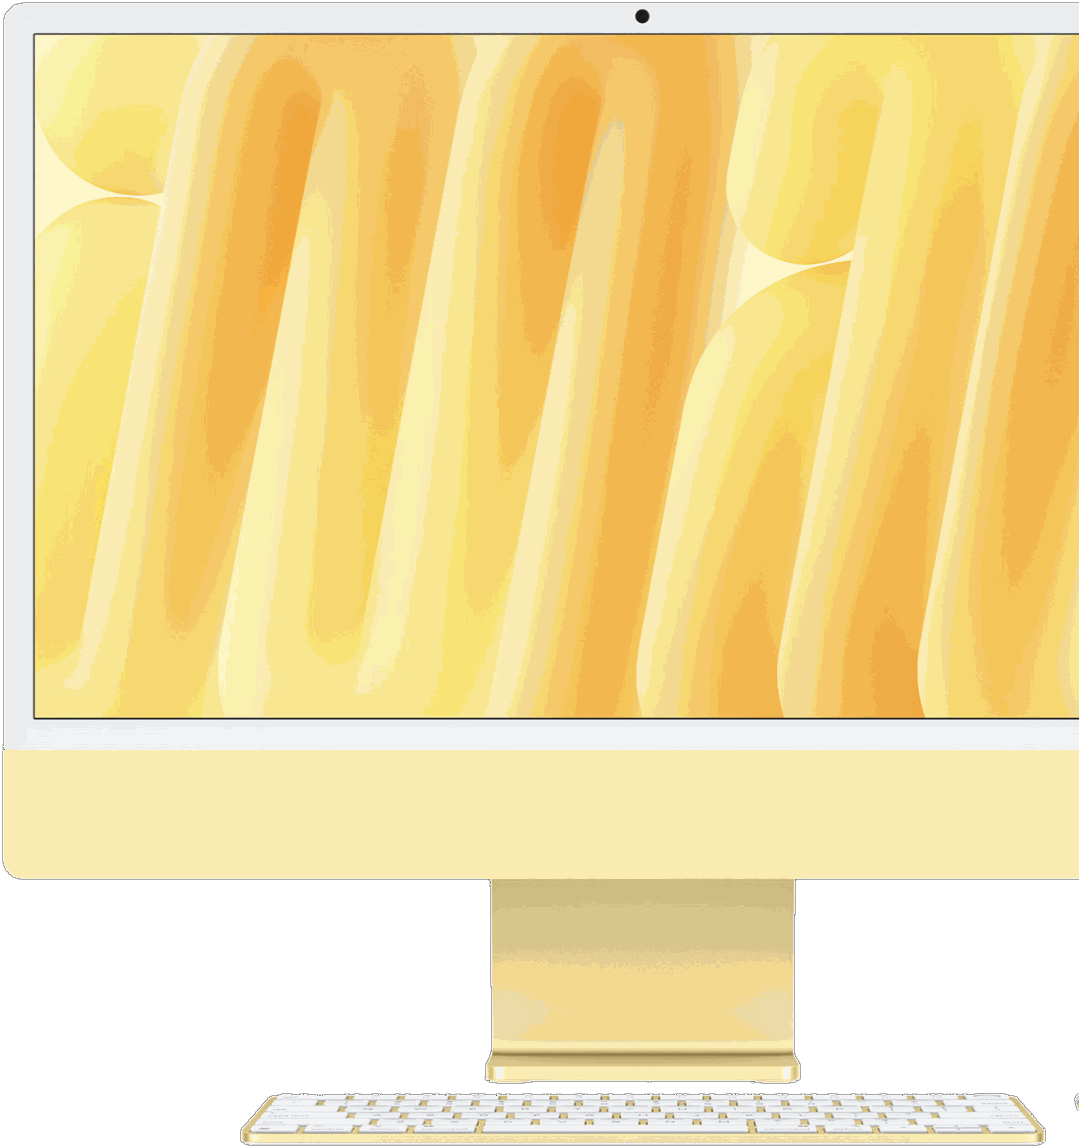
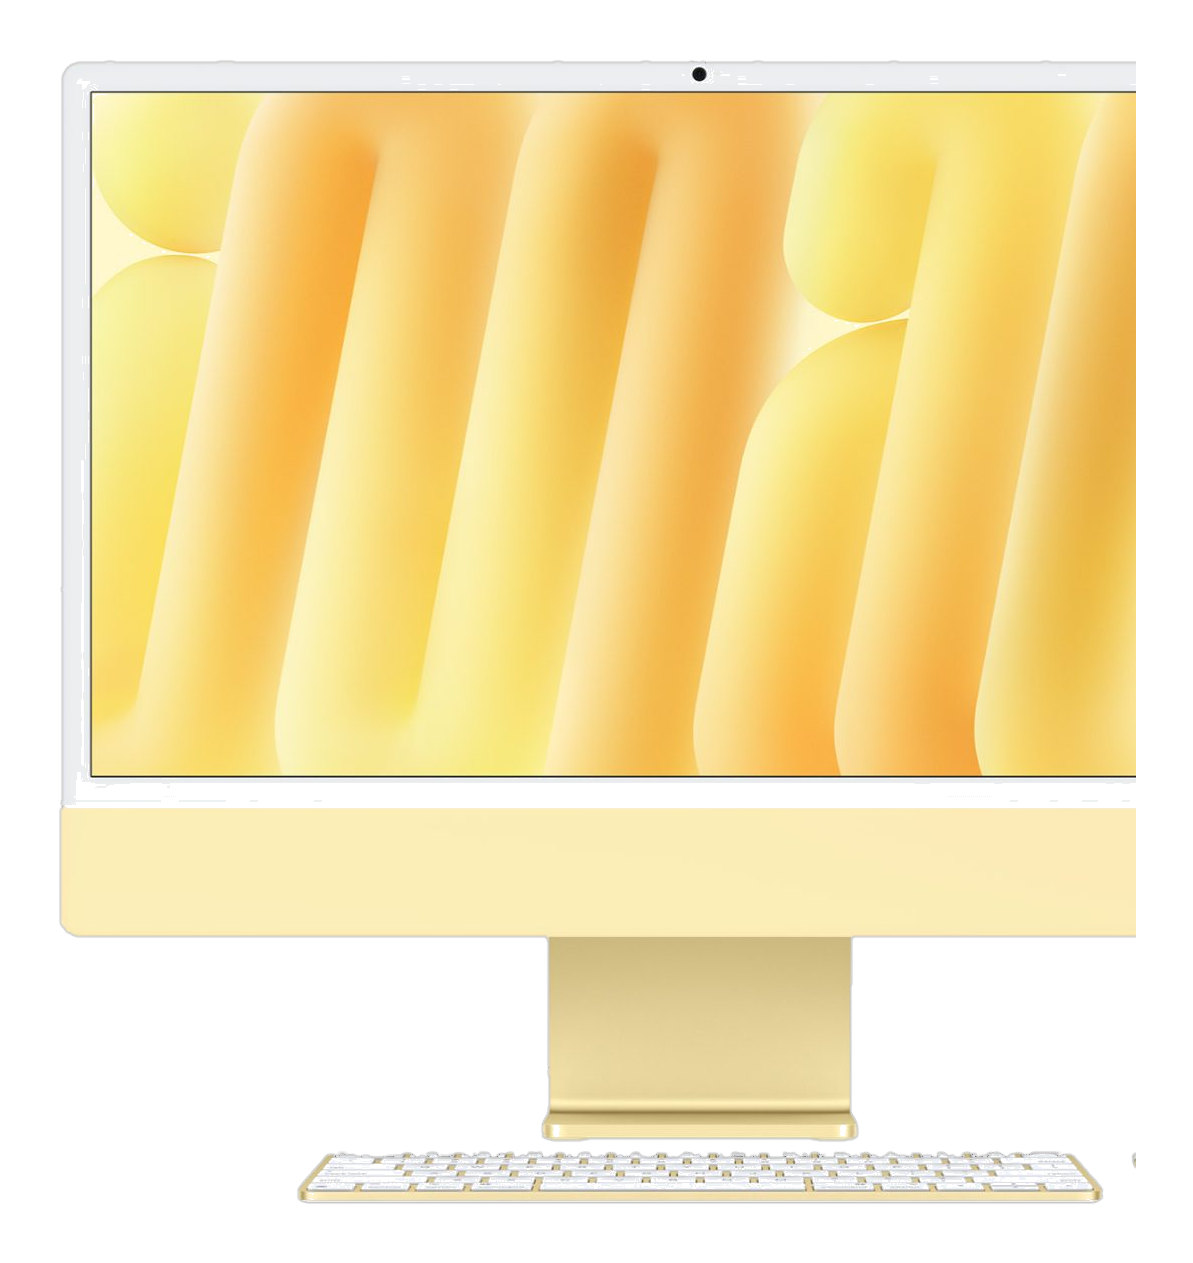
Fix cropped iMac, drop before/after badges, add scroll-stacking rows
- The iMac cutout had 896 opaque pixels flush against its right edge, so
  the keyboard read as chopped off inside the tile. Re-cut from the
  original with a wider colour key and a transparent margin on all sides.
- Removed the corner BEFORE/AFTER badges; the toggle already states which
  side you are looking at.
- Before/after cards are now two sticky rows: the second slides up over
  the first as you scroll, with the covered row scaling back and fading.
  Disabled below 901px and under reduced-motion.
- overflow-x:hidden on body was silently disabling position:sticky. The
  only horizontally overflowing elements are the decorative floating
  devices, so those are now clipped by their own section instead.

diff --git a/assets/css/style.css b/assets/css/style.css
@@ -30,7 +30,6 @@ body{
   line-height:1.45;
   letter-spacing:-.01em;
   -webkit-font-smoothing:antialiased;
-  overflow-x:hidden;
 }
 img{display:block;max-width:100%}
 a{color:inherit;text-decoration:none}
@@ -265,32 +264,26 @@ body.menu-locked{overflow:hidden}
   .tile-img{height:260px}
 }
 
-/* ---------- before / after proof ---------- */
-.ba-grid{display:grid;grid-template-columns:repeat(2,1fr);gap:26px}
+/* ---------- before / after proof (scroll-stacking rows) ---------- */
+.ba-stack{display:flex;flex-direction:column;gap:clamp(48px,6vw,96px)}
+.ba-row{
+  position:sticky;top:clamp(86px,11vh,124px);
+  display:grid;grid-template-columns:repeat(2,1fr);gap:26px;
+  background:var(--bg);padding:16px 0 44px;
+  transform-origin:50% 0;will-change:transform,opacity;
+}
 .ba-card{
   background:var(--panel);border:1px solid var(--line);border-radius:var(--r-card);
   overflow:hidden;display:flex;flex-direction:column;
+  box-shadow:0 1px 2px rgba(20,20,20,.04);
   transition:transform .35s var(--ease),box-shadow .35s var(--ease);
 }
 .ba-card:hover{transform:translateY(-4px);box-shadow:0 16px 36px rgba(20,20,20,.1)}
 .ba-media{position:relative;aspect-ratio:1/1;background:#0B0B0C;cursor:pointer;overflow:hidden}
-.ba-img{
-  position:absolute;inset:0;width:100%;height:100%;object-fit:cover;
-  transition:opacity .5s var(--ease);
-}
+.ba-img{position:absolute;inset:0;width:100%;height:100%;object-fit:cover;transition:opacity .5s var(--ease)}
 .ba-after{opacity:0}
 .ba-media.show-after .ba-after{opacity:1}
 .ba-media.show-after .ba-before{opacity:0}
-.ba-badge{
-  position:absolute;left:14px;top:14px;z-index:3;
-  font-family:var(--mono);font-size:11px;letter-spacing:.09em;text-transform:uppercase;
-  padding:7px 12px;border-radius:100px;color:#fff;
-  background:rgba(10,10,12,.62);backdrop-filter:blur(8px);
-  transition:opacity .4s var(--ease),background .4s var(--ease);
-}
-.ba-badge--after{opacity:0;background:rgba(22,103,217,.9)}
-.ba-media.show-after .ba-badge--before{opacity:0}
-.ba-media.show-after .ba-badge--after{opacity:1}
 .ba-foot{padding:20px 22px 22px;display:flex;align-items:flex-end;justify-content:space-between;gap:16px}
 .ba-foot h3{font-size:19px;letter-spacing:-.02em}
 .ba-foot p{color:var(--ink60);font-size:14.5px;line-height:1.45;margin-top:5px}
@@ -301,9 +294,16 @@ body.menu-locked{overflow:hidden}
   transition:background .25s ease,color .25s ease;
 }
 .ba-switch button.on{background:var(--ink);color:#fff}
-@media (max-width:900px){.ba-grid{grid-template-columns:1fr;gap:20px}}
+@media (max-width:900px){
+  /* no stacking on small screens - plain flow reads better on a phone */
+  .ba-stack{gap:20px}
+  .ba-row{position:static;grid-template-columns:1fr;gap:20px;padding:0;background:none;transform:none!important;opacity:1!important}
+}
 @media (max-width:640px){
   .ba-foot{flex-direction:column;align-items:flex-start;gap:14px}
+}
+@media (prefers-reduced-motion:reduce){
+  .ba-row{position:static;transform:none!important;opacity:1!important}
 }
 
 /* ---------- team grid ---------- */
@@ -361,7 +361,7 @@ body.menu-locked{overflow:hidden}
 .cta-panel--dark .eyebrow svg{stroke:#6EA8FF}
 
 /* decorative floating devices (site-wide accents) */
-.has-drift{position:relative}
+.has-drift{position:relative;overflow:clip}
 .has-drift>.container{position:relative;z-index:1}
 .drift{position:absolute;z-index:0;pointer-events:none}
 .drift img{width:100%}

diff --git a/index.html b/index.html
@@ -173,14 +173,12 @@
       <h2 class="h2">Brought In Broken.<br>Collected Like New.</h2>
       <p class="lead">Actual devices repaired on our bench. Tap any photo to see the result.</p>
     </div>
-    <div class="ba-grid reveal-group">
-
-      <div class="ba-card">
+    <div class="ba-stack">
+    <div class="ba-row">
+  <div class="ba-card">
         <div class="ba-media">
           <img class="ba-img ba-before" src="assets/img/ba-ipad-1-before.jpg" alt="iPad with severe LCD damage before repair">
           <img class="ba-img ba-after" src="assets/img/ba-ipad-1-after.jpg" alt="The same iPad with a clean display after repair">
-          <span class="ba-badge ba-badge--before">Before</span>
-          <span class="ba-badge ba-badge--after">After</span>
         </div>
         <div class="ba-foot">
           <div>
@@ -193,13 +191,10 @@
           </div>
         </div>
       </div>
-
-      <div class="ba-card">
+  <div class="ba-card">
         <div class="ba-media">
           <img class="ba-img ba-before" src="assets/img/ba-imac-2-before.jpg" alt="iMac display with heavy white streaking before repair">
           <img class="ba-img ba-after" src="assets/img/ba-imac-2-after.jpg" alt="The same iMac with a clean display after repair">
-          <span class="ba-badge ba-badge--before">Before</span>
-          <span class="ba-badge ba-badge--after">After</span>
         </div>
         <div class="ba-foot">
           <div>
@@ -212,13 +207,12 @@
           </div>
         </div>
       </div>
-
-      <div class="ba-card">
+    </div>
+    <div class="ba-row">
+  <div class="ba-card">
         <div class="ba-media">
           <img class="ba-img ba-before" src="assets/img/ba-macbook-3-before.jpg" alt="MacBook with a hazy washed out screen before repair">
           <img class="ba-img ba-after" src="assets/img/ba-macbook-3-after.jpg" alt="The same MacBook with a crisp display after repair">
-          <span class="ba-badge ba-badge--before">Before</span>
-          <span class="ba-badge ba-badge--after">After</span>
         </div>
         <div class="ba-foot">
           <div>
@@ -231,13 +225,10 @@
           </div>
         </div>
       </div>
-
-      <div class="ba-card">
+  <div class="ba-card">
         <div class="ba-media">
           <img class="ba-img ba-before" src="assets/img/ba-iphone-1-before.jpg" alt="iPhone with a dented and scuffed back before repair">
           <img class="ba-img ba-after" src="assets/img/ba-iphone-1-after.jpg" alt="The same iPhone with a clean back after repair">
-          <span class="ba-badge ba-badge--before">Before</span>
-          <span class="ba-badge ba-badge--after">After</span>
         </div>
         <div class="ba-foot">
           <div>
@@ -250,10 +241,8 @@
           </div>
         </div>
       </div>
-
     </div>
-  </div>
-</section>
+  </section>
 
 <!-- ======= SHOWCASE: MAC ======= -->
 <section class="showcase">

diff --git a/assets/js/main.js b/assets/js/main.js
@@ -147,6 +147,33 @@
     }
   });
 
+  // Before/after rows: depth cue as the next row slides over the previous one
+  var baRows = Array.prototype.slice.call(document.querySelectorAll('.ba-row'));
+  if (baRows.length > 1 && motionOK) {
+    var stackQuery = window.matchMedia('(min-width: 901px)');
+    var stackTicking = false;
+    function paintStack() {
+      stackTicking = false;
+      if (!stackQuery.matches) {
+        baRows.forEach(function (r) { r.style.transform = ''; r.style.opacity = ''; });
+        return;
+      }
+      for (var i = 0; i < baRows.length - 1; i++) {
+        var cur = baRows[i], next = baRows[i + 1];
+        var gap = next.getBoundingClientRect().top - cur.getBoundingClientRect().top;
+        var covered = 1 - Math.min(Math.max(gap / Math.max(cur.offsetHeight, 1), 0), 1);
+        cur.style.transform = 'scale(' + (1 - 0.045 * covered).toFixed(4) + ')';
+        cur.style.opacity = (1 - 0.4 * covered).toFixed(3);
+      }
+    }
+    function onStackScroll() {
+      if (!stackTicking) { stackTicking = true; requestAnimationFrame(paintStack); }
+    }
+    window.addEventListener('scroll', onStackScroll, { passive: true });
+    window.addEventListener('resize', onStackScroll);
+    paintStack();
+  }
+
   // Mock form
   var form = document.querySelector('form[data-mock]');
   if (form) {

diff --git a/DESIGN-SPEC.md b/DESIGN-SPEC.md
@@ -50,9 +50,13 @@ Borrow its CONVERSION patterns, keep Devix visuals:
 
 ## Real client photography (Sep 2026)
 Client-supplied photos replace stock wherever a genuine equivalent exists. Two components were added for them:
-- `.ba-grid` / `.ba-card` — before/after proof. Two stacked `<img>` crossfade inside `.ba-media`; `.show-after`
-  swaps image + badge. Controlled by the `.ba-switch` Before/After buttons, by clicking the image, and by hover
-  on fine-pointer devices (hover stops once the user clicks a switch). Wired in `main.js`.
+- `.ba-stack` / `.ba-row` / `.ba-card` — before/after proof, built as scroll-stacking rows. Each `.ba-row`
+  is `position:sticky` at the same top offset, so row 2 slides up and covers row 1 as you scroll; `main.js`
+  adds a depth cue (the covered row scales to .955 and fades). Two stacked `<img>` crossfade inside
+  `.ba-media`; `.show-after` swaps them. Controlled by the `.ba-switch` Before/After buttons, by clicking
+  the image, and by hover on fine-pointer devices. Stacking is disabled below 901px and under
+  reduced-motion. NOTE: `overflow-x:hidden` on `body` silently kills `position:sticky` — the floating
+  `.drift` devices are instead clipped by `.has-drift{overflow:clip}` on their own section.
 - `.team-grid` / `.team-card` — 4:5 staff portraits, name + mono label. 4 cols → 3 → 2.
 Naming: `ykl-work-N.jpg` (bench candids, 3:2) and `-p` variants (4:5), `ykl-team-<name>.jpg`,
 `ykl-store-N.jpg`, `ba-<device>-<n>-<before|after>.jpg`.
